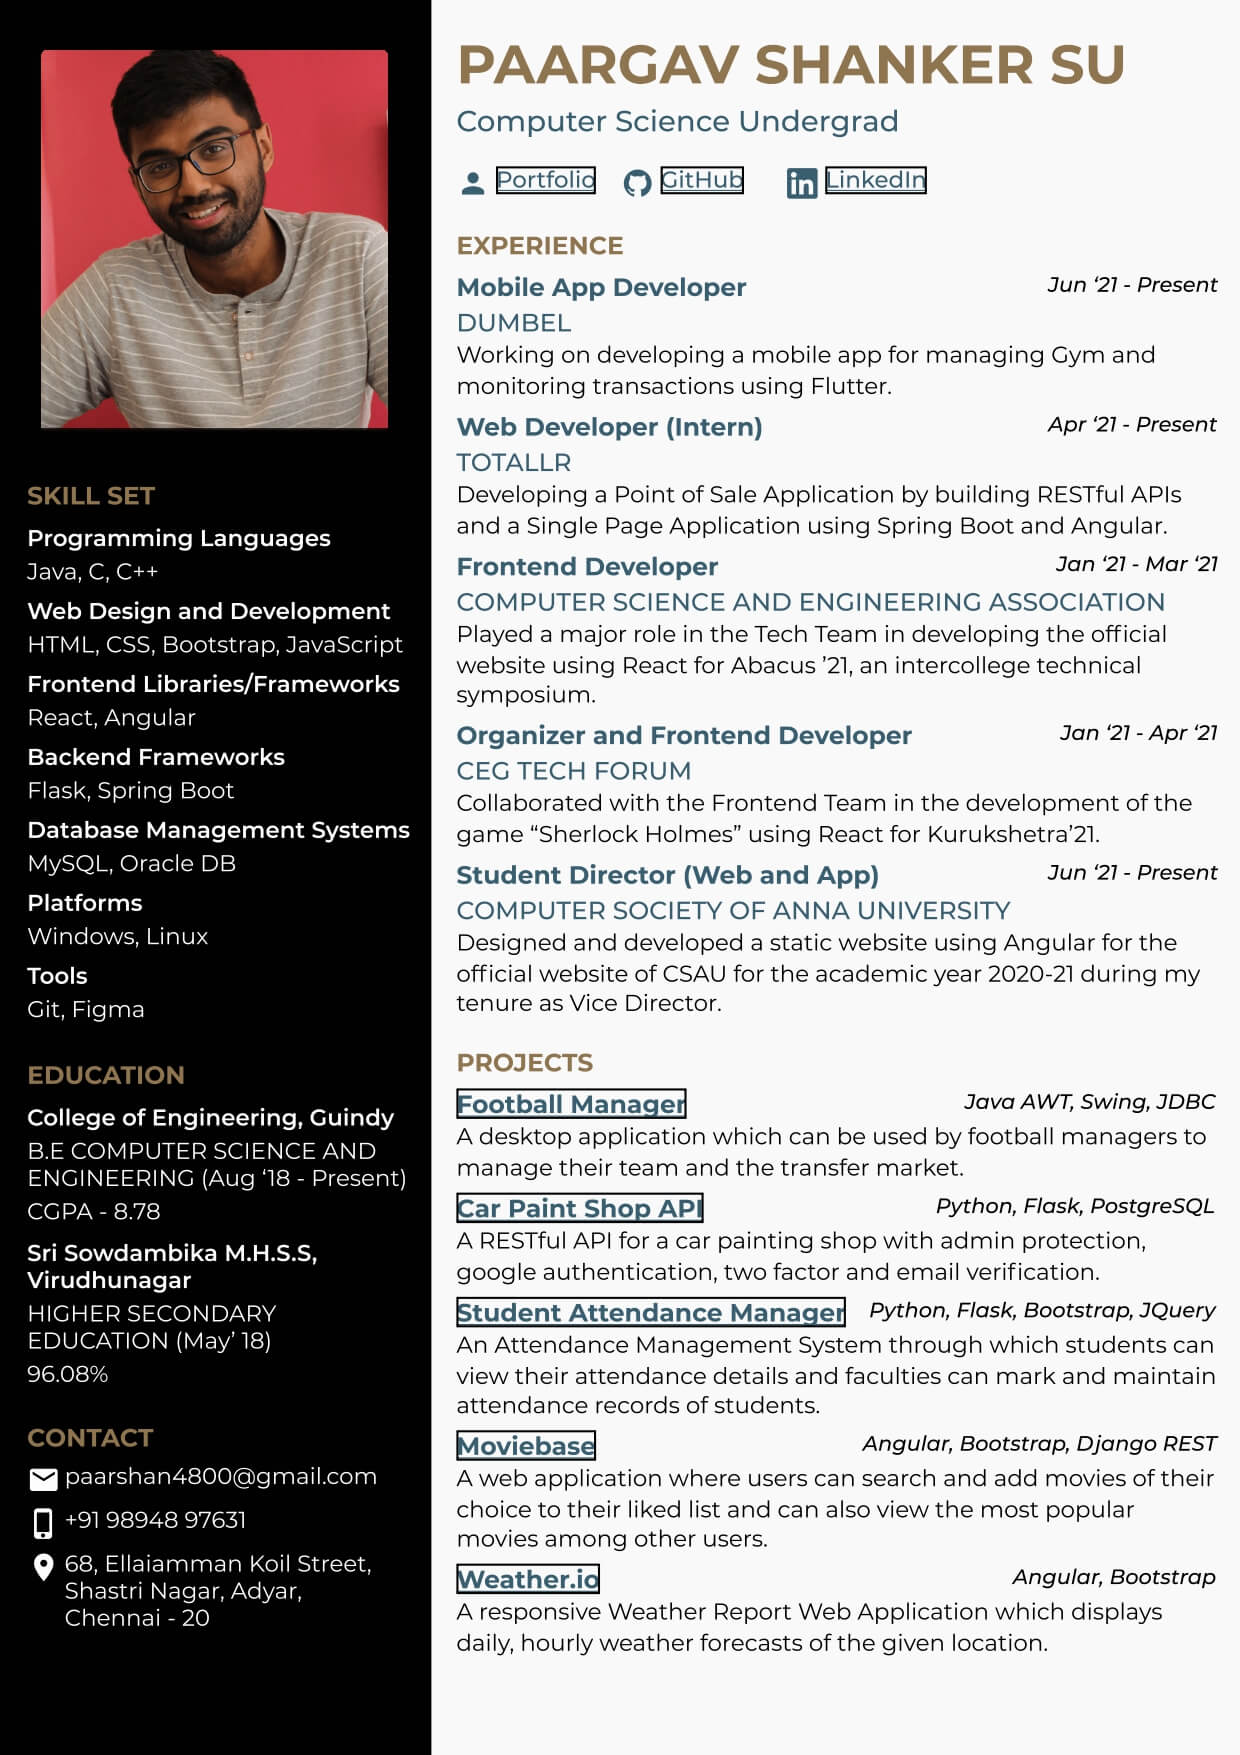
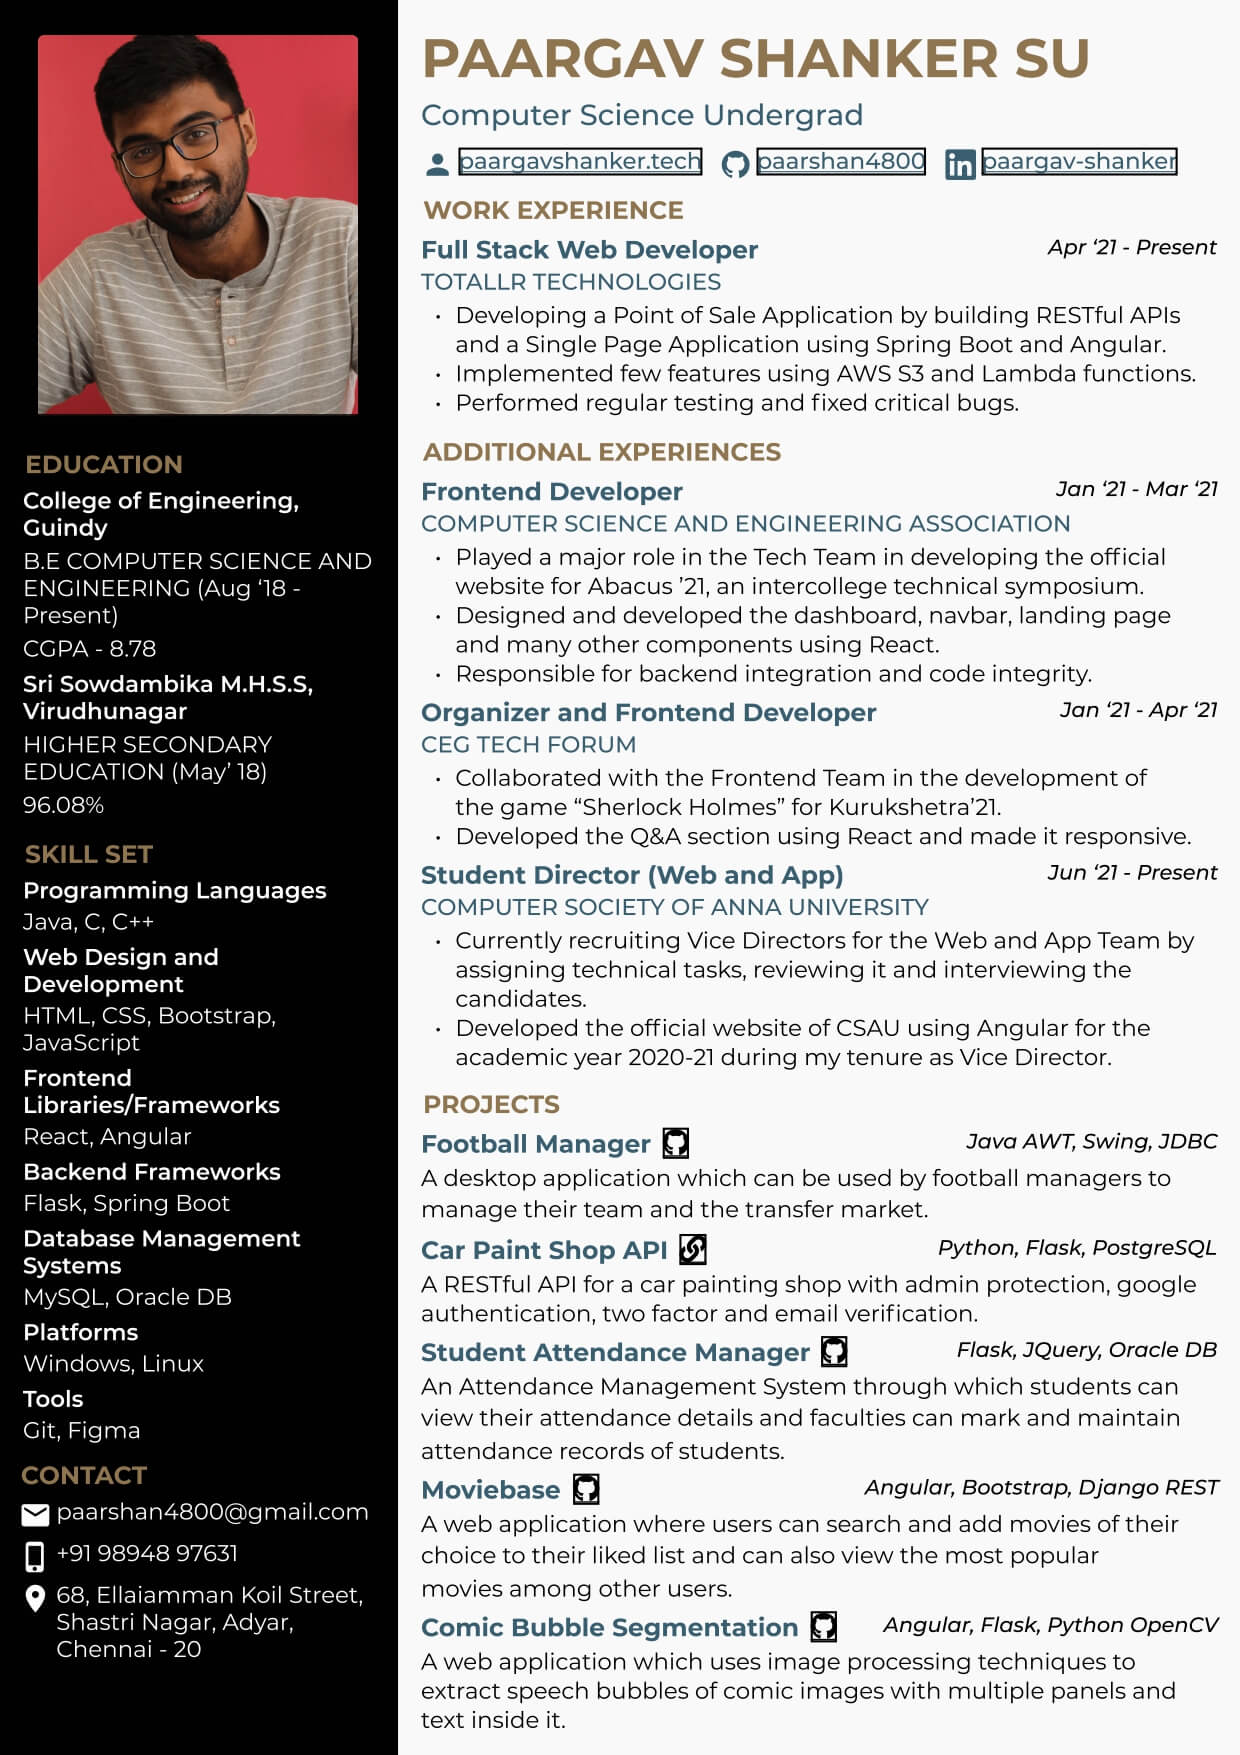
minor updates

Changed region(s): [[0.0, 0.0, 0.9806, 1.0]]

diff --git a/src/data/Experience.js b/src/data/Experience.js
@@ -1,21 +1,7 @@
 export const EXPERIENCES = [
   {
-    organization: "Dumbel",
-    logo: "dumbel.png",
-    duration: "Jun '21 - Present",
-    role: "Mobile App Developer",
-    workedIn: "Flutter",
-  },
-  {
-    organization: "Computer Society of Anna University",
-    logo: "csau.png",
-    duration: "Jun '21 - Present",
-    role: "Student Director (Web and App)",
-    workedIn: "Angular, Bootstrap",
-  },
-  {
     organization: "Totallr",
-    logo: "company.png",
+    logo: "totallr.png",
     duration: "Apr '21 - Present",
     role: "Web Developer Intern",
     workedIn: "Angular, Spring Boot, AWS S3",
@@ -33,5 +19,12 @@ export const EXPERIENCES = [
     duration: "Jan '21 - Apr '21",
     role: "Organizer and Frontend Developer",
     workedIn: "React",
+  },
+  {
+    organization: "Computer Society of Anna University",
+    logo: "csau.png",
+    duration: "Aug '20 - Present",
+    role: "Student Director (Web and App)",
+    workedIn: "Angular, Bootstrap",
   },
 ];

diff --git a/src/data/Resume.js b/src/data/Resume.js
@@ -1,2 +1,2 @@
 export const RESUME =
-  "https://drive.google.com/file/d/1yopVOPKdOKtesOojV34OJMVsNHUDu-u5/view?usp=sharing";
+  "https://drive.google.com/file/d/1MWKJWw3-7itI7PZCcBZLcCxXIwJJffaG/view?usp=sharing";
